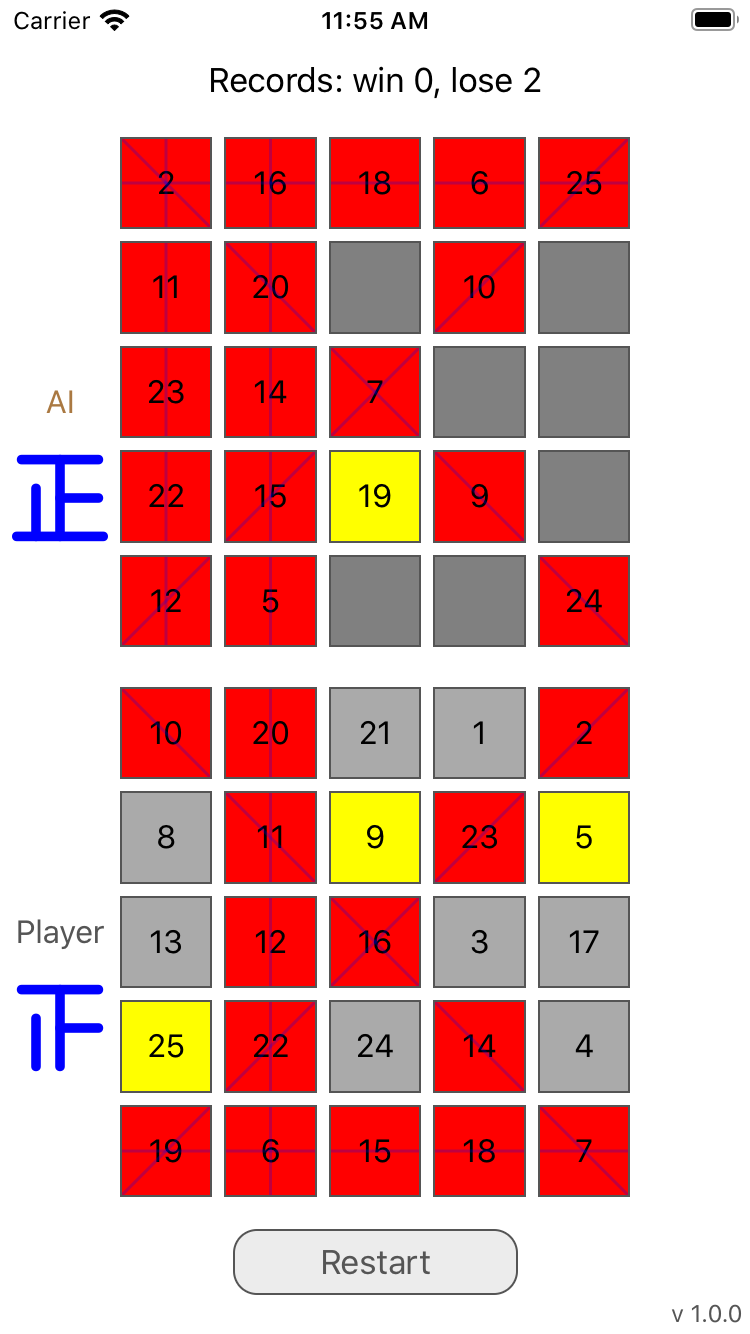
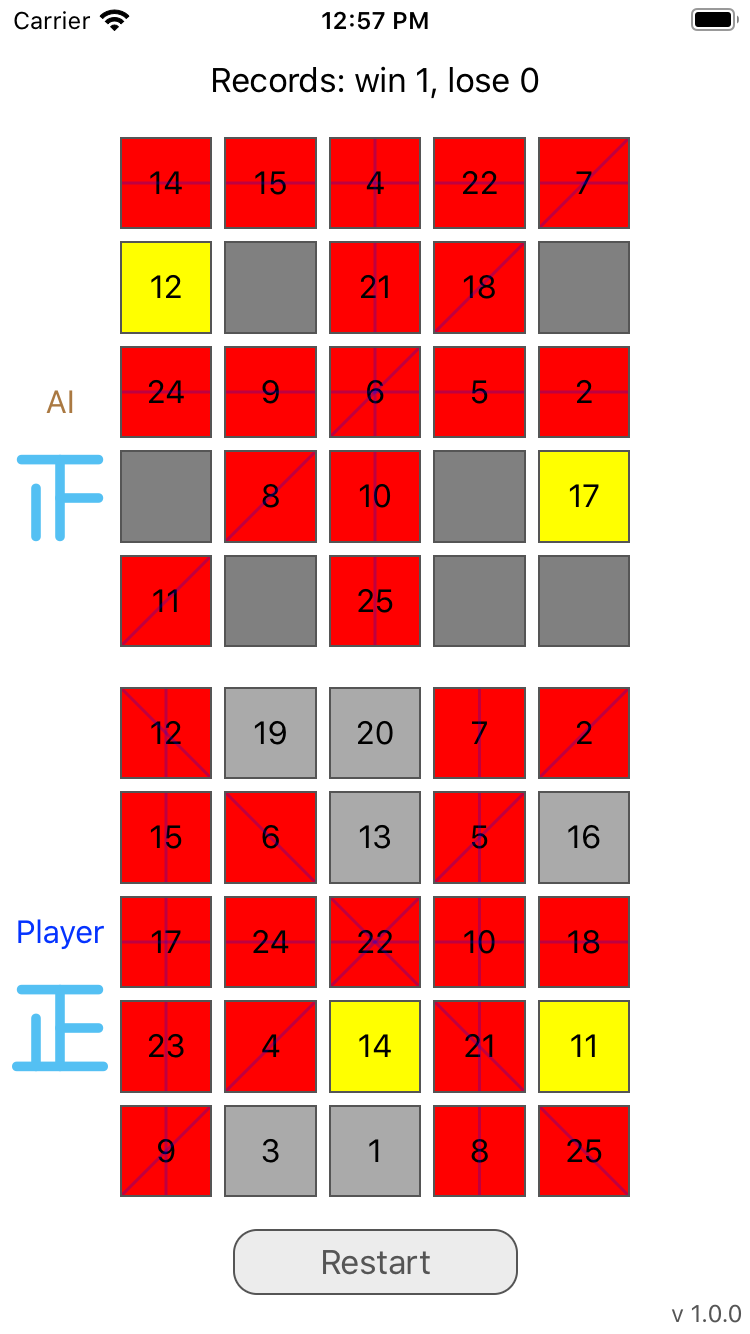
update UICountView

diff --git a/Bingo/Classes/ViewController/UICountView.swift b/Bingo/Classes/ViewController/UICountView.swift
@@ -19,6 +19,14 @@ class UICountView: UIView
         }
     }
     
+    @IBInspectable var lineColor: UIColor = UIColor.blue
+    {
+        didSet
+        {
+            self.setNeedsDisplay()
+        }
+    }
+    
     public override func draw(_ rect: CGRect)
     {
         super.draw(rect)
@@ -31,7 +39,7 @@ class UICountView: UIView
         
         let offset = rect.size.width / 10
         
-        context.setStrokeColor(UIColor.blue.cgColor)
+        context.setStrokeColor(self.lineColor.cgColor)
         context.setLineWidth(offset)
         context.setLineJoin(CGLineJoin.round)
         
